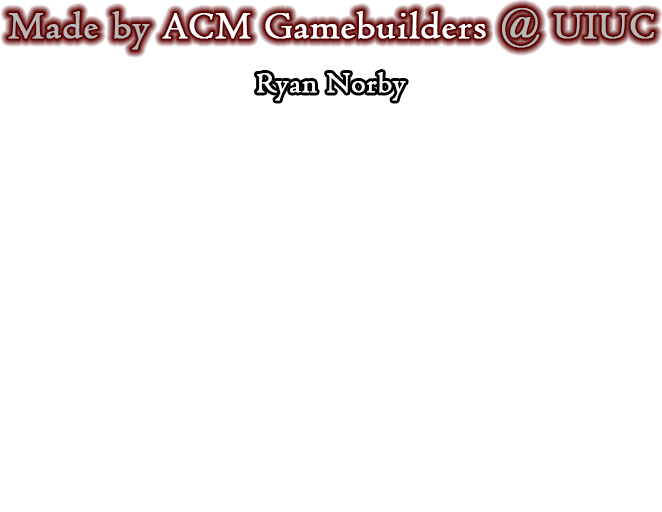
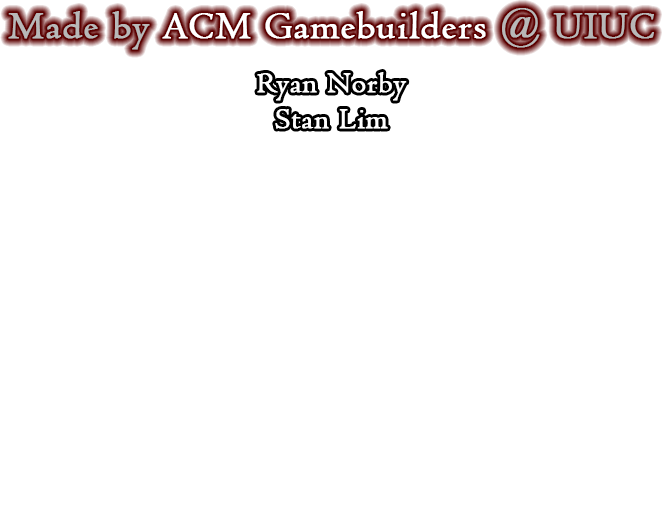
Added gameplay design oveview created with Stan. Also added Stan to credits.

Changed region(s): [[0.3625, 0.125, 0.6344, 0.2812]]

diff --git a/README.md b/README.md
@@ -2,3 +2,44 @@ student-gdc-2014
 ================
 
 The Gamebuilders group submission for the 2014 Global Student Game Developer Competition.
+
+
+Gameplay Overview
+-----------------
+
+The game will be a side-scrolling platformer shooter where the player controls a single pidgeon holding a vine in its beak. The player needs to advance through the level in order to rescue its friend, which is another pidgeon with a unique ability. There are 4 pidgeons to save total, each with their own ability (so 4 levels total). There will also be a boss battle at the end, once the player has control of all 5 pidgeons. The level will scroll from left to right automatically, but the player is still able to choose where they are on the screen.
+
+
+Controls
+--------
+
+W,A,S,D for movement. The player controls his pidgeon and up to one other pidgeon (that has been unlocked) simultaneously.
+
+Pidgeons will shoot their basic attacks automatically.
+
+Space for partner pidgeon's special attack (which is on a cooldown)
+
+
+Pidgeons
+--------
+
+Gray Pidgeon: Basic pidgeon. Always actively under control of player. Has no special abilities.
+Red Pidgeon: Fire pidgeon. Shoots fireballs that burn obstacles.
+Blue Pidgeon: Ice pidgeon. Shoots ice shards that freeze enemies and moving obstacles.
+Purple Pidgeon: Shield pidgeon. Doesn't have much firepower, but has a shield that can be used on cooldown.
+Gold Pidgeon: Warrior pidgeon. Has a ton of firepower. Ability damages all enemies on the screen.
+
+
+Level Design
+------------
+Level 1: Player saves Red Pidgeon. Level is very simple with no crazy obstacles. Kinda like a tutorial level
+Level 2: Player saves Blue Pidgeon. Level contains fire-vulnerable enemies, and wooden barriers that can be burned (in addition to Level 1 mechanics)
+Level 3: Player saves Purple Pidgeon. Level contains fast-moving obstacles that can be frozen and enemies that are vulnerable to ice (in addition to Level 2 mechanics)
+Level 4: Player saves Gold Pidgeon. Level contains unavoidable attacks (such as a big wave of something) that must be countered with purple pidgeon (in addition to Level 3 mechanics)
+Boss Level: Level contains a lot of enemies that must be countered by gold pidgeon (in addition to Level 4 mechanics)
+
+
+ Misc Notes
+----------
+
+* If time, make it so each pidgeon modifies the player's shooting in some way.
